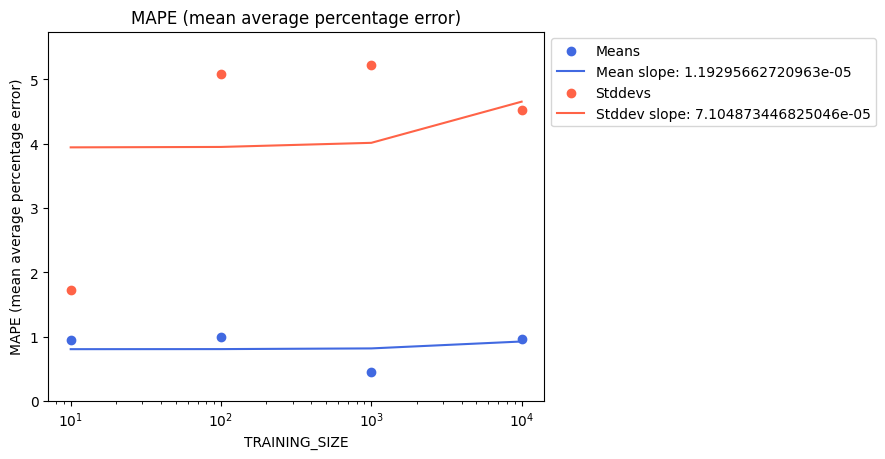
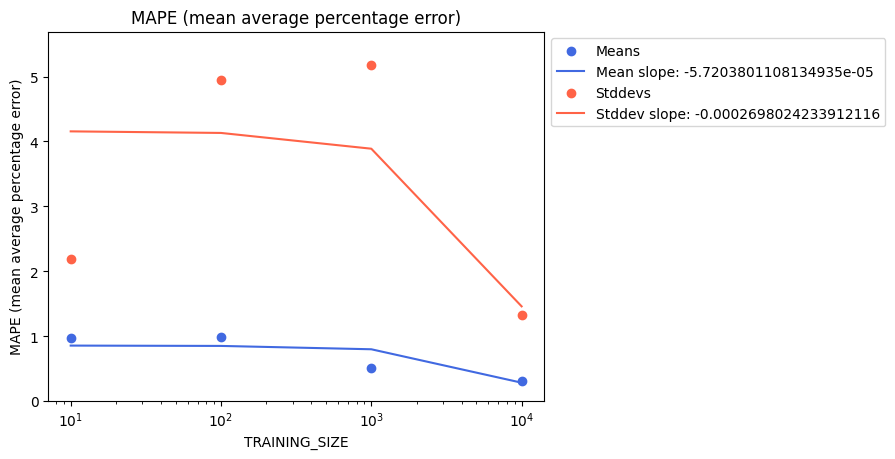
make fun graphs of everything

diff --git a/performance.py b/performance.py
@@ -20,6 +20,11 @@ logger.setLevel(logging.INFO)
 console_handler = logging.StreamHandler()
 logger.addHandler(console_handler)
 
+distribution_indices = list(DISTRIBUTION_FUNCTIONS.keys())
+
+colors = ["royalblue", "tomato", "forestgreen", "darkorange",
+        "purple", "cyan", "magenta", "yellow", "black"]
+
 # Regression: Graph how loss, R^2, and MAE varies with different sample sizes,
 # training sizes, epoch counts, and/or learning rate
 
@@ -99,11 +104,11 @@ def get_classification_metrics(model):
     # Ensure compatibility with sklearn (convert to NumPy)
     return (accuracy_score(actual_labels.cpu().numpy(), predictions.cpu().numpy()),
         f1_score(actual_labels.cpu().numpy(), predictions.cpu().numpy(),
-            average='weighted'),
+            average=None),
         recall_score(actual_labels.cpu().numpy(),
-            predictions.cpu().numpy(), average='weighted'),
+            predictions.cpu().numpy(), average=None),
         precision_score(actual_labels.cpu().numpy(),
-            predictions.cpu().numpy(), average='weighted'))
+            predictions.cpu().numpy(), average=None))
 
 # regression pngs
 def regression_png(name, x_values, means, stddevs):
@@ -139,20 +144,30 @@ def regression_png(name, x_values, means, stddevs):
     plt.savefig(destination, bbox_inches="tight")
     plt.show()
 
-def classification_png(name, x_values, accuracies):
-    plt.ylim(min(accuracies) * 0.9, max(accuracies) * 1.1)
+def classification_png(name, x_values, metrics):
+    plt.ylim(0, 1)
     plt.ylabel(name)
 
     x_values = np.float64(x_values)
     sorted_indices = np.argsort(x_values)
     x_values = x_values[sorted_indices]
-    accuracies = np.array(accuracies)[sorted_indices]
 
-    plt.scatter(x_values, accuracies, color="royalblue", label="Accuracies")
-    slope, intercept = np.polyfit(x_values, accuracies, deg=1)
-    trend = slope * x_values + intercept
-    plt.plot(x_values, trend, color="royalblue",
-             label=f'Slope: {slope}')
+
+    # Handle overall accuracy differently
+    if name == "Accuracy":
+        metrics = np.array(metrics)[sorted_indices]  # Sort 1D metrics array
+        plt.scatter(x_values, metrics, color="royalblue", label="Accuracy")
+        slope, intercept = np.polyfit(x_values, metrics, deg=1)
+        trend = slope * x_values + intercept
+        plt.plot(x_values, trend, color="royalblue", label=f"Slope: {slope:.2f}")
+    else:
+        # Sort 2D metrics array for other metrics (e.g., F1, Recall, Precision)
+        metrics = np.array(metrics)[sorted_indices, :]
+        for i in range(metrics.shape[1]):  # Loop over distributions (columns)
+            plt.scatter(x_values, metrics[:, i], color=colors[i], label=distribution_indices[i])
+            slope, intercept = np.polyfit(x_values, metrics[:, i], deg=1)
+            trend = slope * x_values + intercept
+            plt.plot(x_values, trend, color=colors[i])
 
     plt.gca().set_xscale('log')
     plt.xlabel(HYPERPARAMETER)
@@ -241,7 +256,7 @@ def main():
                     f"mean_mae={mean_mae:.2f},\tstddev_mae={stddev_mae:.2f} "
                     f"\n\t\t\t--> mean_mape={mean_mape:.2f},\tstddev_mape={stddev_mape:.2f}"
                     f"\n\t\t\t--> mean_r2={mean_r2:.2f},\tstddev_r2={stddev_r2:.2f} "
-                    f"\n\t\t\t--> accuracy={accuracy:.2f},\tf1={f1:.2f},\trecall={recall:.2f},\tprecision={precision:.2f}"
+                    f"\n\t\t\t--> accuracy={accuracy:.2f},\tf1={f1},\trecall={recall},\tprecision={precision}"
                     f"(Finished in {model_end - model_start:.2f} seconds)")
 
     end = time.time()

diff --git a/env.py b/env.py
@@ -1,5 +1,5 @@
 CONFIG = {
-        "TRAINING_SIZE": 1000,  # How many (data points, labels) examples to train on
+        "TRAINING_SIZE": 10000,  # How many (data points, labels) examples to train on
         "TEST_SIZE": 100,       # To speed up regression_performance.py
         "SAMPLE_SIZE": 30,      # Size of input layer
         "BATCH_SIZE": 1,       # How many examples to see before performing backpropagation

diff --git a/generate_data.py b/generate_data.py
@@ -99,7 +99,7 @@ def rayleigh(sample_size):
     # mean = sigma sqrt(pi/2)
     # sigma = mean * sqrt(2/pi)
     sigma = mean * math.sqrt(2 / math.pi)
-    stddev = mean * math.sqrt((4 / math.pi)  - 1)
+    stddev = sigma * math.sqrt((4 / math.pi)  - 1)
     labels = [0,0,0,0,0,0,0,1,0,mean,stddev]
 
     # One parameter, which must be positive
